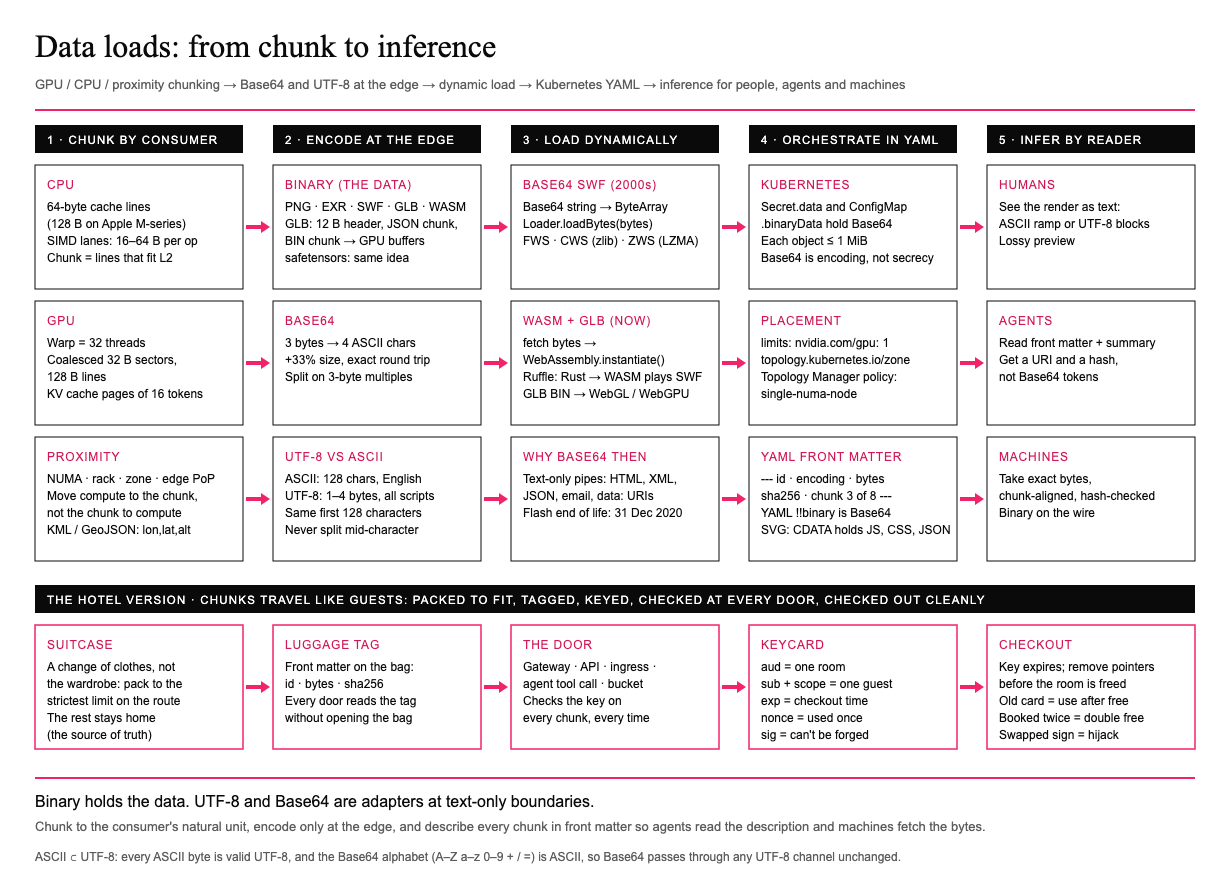
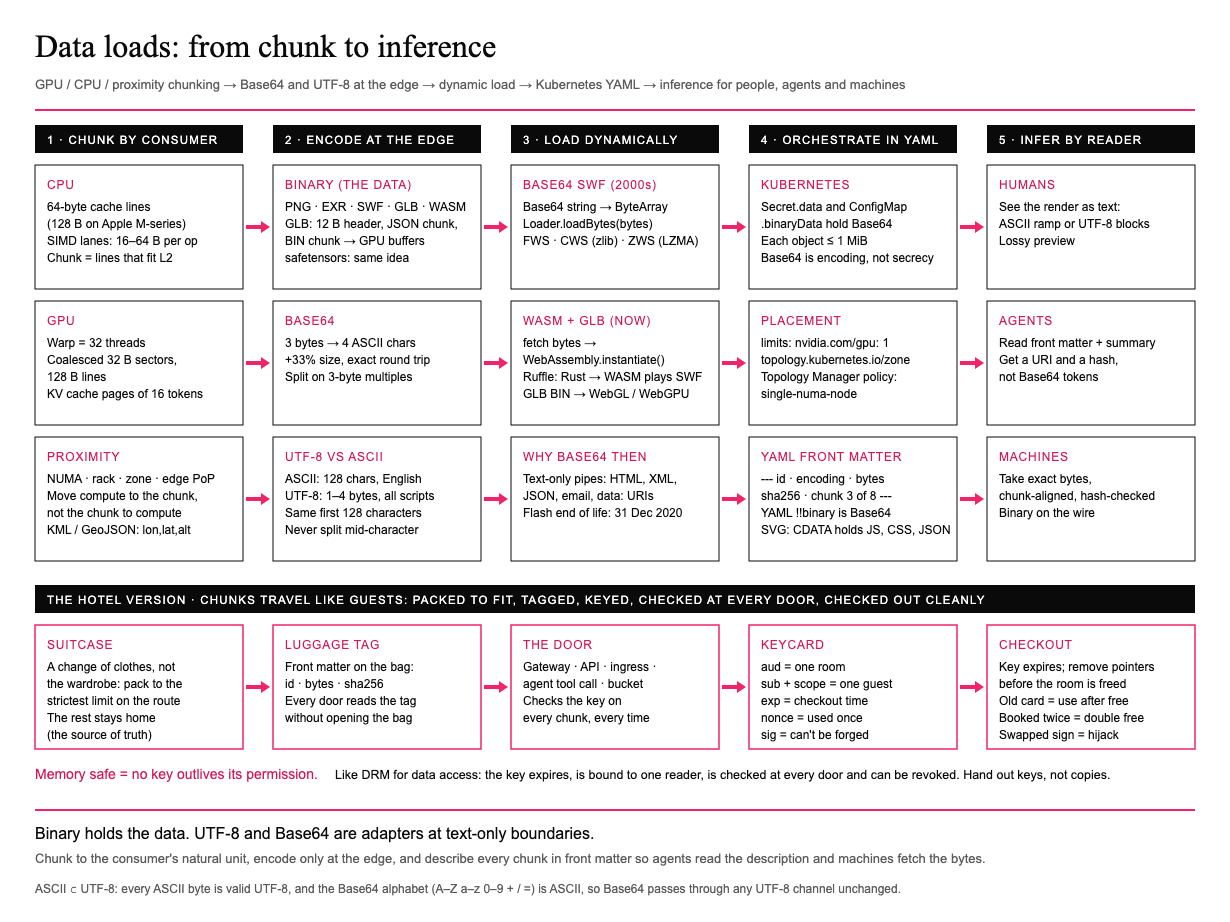
KB: memory safe = no key outlives its permission (DRM for data access)

Changed region(s): [[0.0309, 0.0303, 0.9886, 0.9708]]

diff --git a/chunk-encode-load.html b/chunk-encode-load.html
@@ -4,23 +4,23 @@
 <meta charset="utf-8">
 <meta name="viewport" content="width=device-width, initial-scale=1">
 <title>Chunk to the consumer, encode at the edge</title>
-<meta name="description" content="How GPU, CPU and proximity chunking connect to Base64 SWF dynamic loading, Kubernetes manifests and YAML front matter, and what each reader of a data load (person, agent, machine) actually needs. Covers UTF-8 vs ASCII, SWF, GLB and Rust binaries, SVG CDATA and KML location data, bandwidth allocation for business readers, use after free in plain terms, and the hotel version: chunks that carry their own key through every door.">
+<meta name="description" content="How GPU, CPU and proximity chunking connect to Base64 SWF dynamic loading, Kubernetes manifests and YAML front matter, and what each reader of a data load (person, agent, machine) actually needs. Covers UTF-8 vs ASCII, SWF, GLB and Rust binaries, SVG CDATA and KML location data, bandwidth allocation for business readers, use after free in plain terms, memory safety as DRM for data access, and the hotel version: chunks that carry their own key through every door.">
 <link rel="canonical" href="https://persephonepunch.github.io/crm-sync-setup/chunk-encode-load.html">
 <meta property="og:type" content="article">
 <meta property="og:site_name" content="CRM Sync">
 <meta property="og:title" content="Chunk to the consumer, encode at the edge">
-<meta property="og:description" content="How GPU, CPU and proximity chunking connect to Base64 SWF dynamic loading, Kubernetes manifests and YAML front matter, and what each reader of a data load (person, agent, machine) actually needs. Covers UTF-8 vs ASCII, SWF, GLB and Rust binaries, SVG CDATA and KML location data, bandwidth allocation for business readers, use after free in plain terms, and the hotel version: chunks that carry their own key through every door.">
+<meta property="og:description" content="How GPU, CPU and proximity chunking connect to Base64 SWF dynamic loading, Kubernetes manifests and YAML front matter, and what each reader of a data load (person, agent, machine) actually needs. Covers UTF-8 vs ASCII, SWF, GLB and Rust binaries, SVG CDATA and KML location data, bandwidth allocation for business readers, use after free in plain terms, memory safety as DRM for data access, and the hotel version: chunks that carry their own key through every door.">
 <meta property="og:url" content="https://persephonepunch.github.io/crm-sync-setup/chunk-encode-load.html">
 <meta property="article:section" content="Specs">
 <meta name="twitter:card" content="summary_large_image">
-<script type="application/ld+json">{"@context":"https://schema.org","@type":"TechArticle","@id":"https://persephonepunch.github.io/crm-sync-setup/chunk-encode-load.html#article","headline":"Chunk to the consumer, encode at the edge","description":"How GPU, CPU and proximity chunking connect to Base64 SWF dynamic loading, Kubernetes manifests and YAML front matter, and what each reader of a data load (person, agent, machine) actually needs. Covers UTF-8 vs ASCII, SWF, GLB and Rust binaries, SVG CDATA and KML location data, bandwidth allocation for business readers, use after free in plain terms, and the hotel version: chunks that carry their own key through every door.","datePublished":"2026-11-25","dateModified":"2026-11-25","author":{"@type":"Organization","name":"CRM Sync","url":"https://crm-sync.dev"},"publisher":{"@type":"Organization","name":"CRM Sync","url":"https://crm-sync.dev"},"mainEntityOfPage":"https://persephonepunch.github.io/crm-sync-setup/chunk-encode-load.html","inLanguage":"en","isBasedOn":"https://github.com/persephonepunch/crm-sync-setup/blob/master/CHUNK-ENCODE-LOAD.md","articleSection":"Specs","license":"https://creativecommons.org/licenses/by/4.0/","keywords":["data chunking","GPU CPU proximity","Base64","UTF-8 vs ASCII","SWF loadBytes","GLB glTF","Kubernetes ConfigMap","YAML front matter","SVG CDATA","KML location data","bandwidth allocation","use after free","pointer hijack"]}</script>
+<script type="application/ld+json">{"@context":"https://schema.org","@type":"TechArticle","@id":"https://persephonepunch.github.io/crm-sync-setup/chunk-encode-load.html#article","headline":"Chunk to the consumer, encode at the edge","description":"How GPU, CPU and proximity chunking connect to Base64 SWF dynamic loading, Kubernetes manifests and YAML front matter, and what each reader of a data load (person, agent, machine) actually needs. Covers UTF-8 vs ASCII, SWF, GLB and Rust binaries, SVG CDATA and KML location data, bandwidth allocation for business readers, use after free in plain terms, memory safety as DRM for data access, and the hotel version: chunks that carry their own key through every door.","datePublished":"2026-11-25","dateModified":"2026-11-25","author":{"@type":"Organization","name":"CRM Sync","url":"https://crm-sync.dev"},"publisher":{"@type":"Organization","name":"CRM Sync","url":"https://crm-sync.dev"},"mainEntityOfPage":"https://persephonepunch.github.io/crm-sync-setup/chunk-encode-load.html","inLanguage":"en","isBasedOn":"https://github.com/persephonepunch/crm-sync-setup/blob/master/CHUNK-ENCODE-LOAD.md","articleSection":"Specs","license":"https://creativecommons.org/licenses/by/4.0/","keywords":["data chunking","GPU CPU proximity","Base64","UTF-8 vs ASCII","SWF loadBytes","GLB glTF","Kubernetes ConfigMap","YAML front matter","SVG CDATA","KML location data","bandwidth allocation","use after free","pointer hijack"]}</script>
 <link rel="stylesheet" href="./doc.css?v=5f1bad5ad3">
 </head>
 <body
   data-md="./CHUNK-ENCODE-LOAD.md"
   data-title="Chunk to the consumer, encode at the edge"
   data-kicker="Specs &middot; CRM Sync knowledge base"
-  data-sub="How GPU, CPU and proximity chunking connect to Base64 SWF dynamic loading, Kubernetes manifests and YAML front matter, and what each reader of a data load (person, agent, machine) actually needs. Covers UTF-8 vs ASCII, SWF, GLB and Rust binaries, SVG CDATA and KML location data, bandwidth allocation for business readers, use after free in plain terms, and the hotel version: chunks that carry their own key through every door."
+  data-sub="How GPU, CPU and proximity chunking connect to Base64 SWF dynamic loading, Kubernetes manifests and YAML front matter, and what each reader of a data load (person, agent, machine) actually needs. Covers UTF-8 vs ASCII, SWF, GLB and Rust binaries, SVG CDATA and KML location data, bandwidth allocation for business readers, use after free in plain terms, memory safety as DRM for data access, and the hotel version: chunks that carry their own key through every door."
   data-source="https://github.com/persephonepunch/crm-sync-setup/blob/master/CHUNK-ENCODE-LOAD.md">
   <div class="wrap">
     <nav class="sitenav">

diff --git a/CHUNK-ENCODE-LOAD.md b/CHUNK-ENCODE-LOAD.md
@@ -1,6 +1,6 @@
 ---
 title: "Chunk to the consumer, encode at the edge"
-description: "How GPU, CPU and proximity chunking connect to Base64 SWF dynamic loading, Kubernetes manifests and YAML front matter, and what each reader of a data load (person, agent, machine) actually needs. Covers UTF-8 vs ASCII, SWF, GLB and Rust binaries, SVG CDATA and KML location data, bandwidth allocation for business readers, use after free in plain terms, and the hotel version: chunks that carry their own key through every door."
+description: "How GPU, CPU and proximity chunking connect to Base64 SWF dynamic loading, Kubernetes manifests and YAML front matter, and what each reader of a data load (person, agent, machine) actually needs. Covers UTF-8 vs ASCII, SWF, GLB and Rust binaries, SVG CDATA and KML location data, bandwidth allocation for business readers, use after free in plain terms, memory safety as DRM for data access, and the hotel version: chunks that carry their own key through every door."
 canonical: https://persephonepunch.github.io/crm-sync-setup/chunk-encode-load.html
 category: "Specs"
 date: 2026-11-25
@@ -323,6 +323,21 @@ Picture memory as a hotel. Rooms are memory, a **pointer** is a keycard or a roo
 | Pointer hijack | Stored address overwritten; the program jumps where the attacker chose | The lobby sign is swapped to point to the wrong room | Subdomain takeover: customers follow your link to the attacker's site |
 
 **Defences.** Rust's ownership rules stop the first two at compile time: each piece of memory has one owner, it is freed exactly once, and no keycard can outlive the stay. In C, set the pointer to null after freeing. Hardened allocators catch double frees, pointer authentication on Apple M-series and newer Arm chips signs stored addresses so a swapped sign fails the check, and address randomization (ASLR) makes the attacker guess where the rooms are.
+
+### Memory safe means no key outlives its permission
+
+Every bug above has the same shape: **a key that lives longer than the permission it was issued for.** Memory safety is the guarantee that this can't happen. Good data access works like DRM for your own data: the key expires, is bound to one reader, is checked every time it is used and can be revoked.
+
+|  | Permission | Key | Gap when the key outlives it |
+|----|----|----|----|
+| Memory | The allocation (room 412 is yours until checkout) | The pointer | Use after free |
+| Hotel | The stay | The keycard | An old card opens a room that is now someone else's |
+| Data access | The grant (this service may read this data until a set time) | A token or API key | A departed vendor's key still works |
+| DRM | The licence (rent this film for 48 hours) | The content key | The film still plays after the rental ends |
+
+**How each keeps the key in line.** Rust enforces it before the program runs: every reference has a lifetime tied to its owner, and the compiler refuses code where a reference could outlive what it points to, as if the hotel would not open until it proved no keycard can outlast its stay. DRM enforces it at runtime: the licence expires, is bound to one device, is checked on every play and can be revoked from the licence server. Data access done well does the same, which is the chunk key below (`aud`, `exp`, `nonce`, `sig`). CHERI hardware (Arm's Morello research chip) makes it literal: pointers become capabilities that carry their own bounds and permissions, and the processor refuses any access outside them.
+
+**Where the DRM comparison breaks, and why that helps.** DRM tries to control a copy on a device someone else owns, and it fails once the content is decrypted and recorded (the "analog hole"). Data access is stronger because you own the door. So the business rule is: **keep data behind doors you control and hand out keys, not copies.** A key can expire or be revoked; a copy cannot be taken back.
 
 ### Chunks through the door: key data for every piece
 
